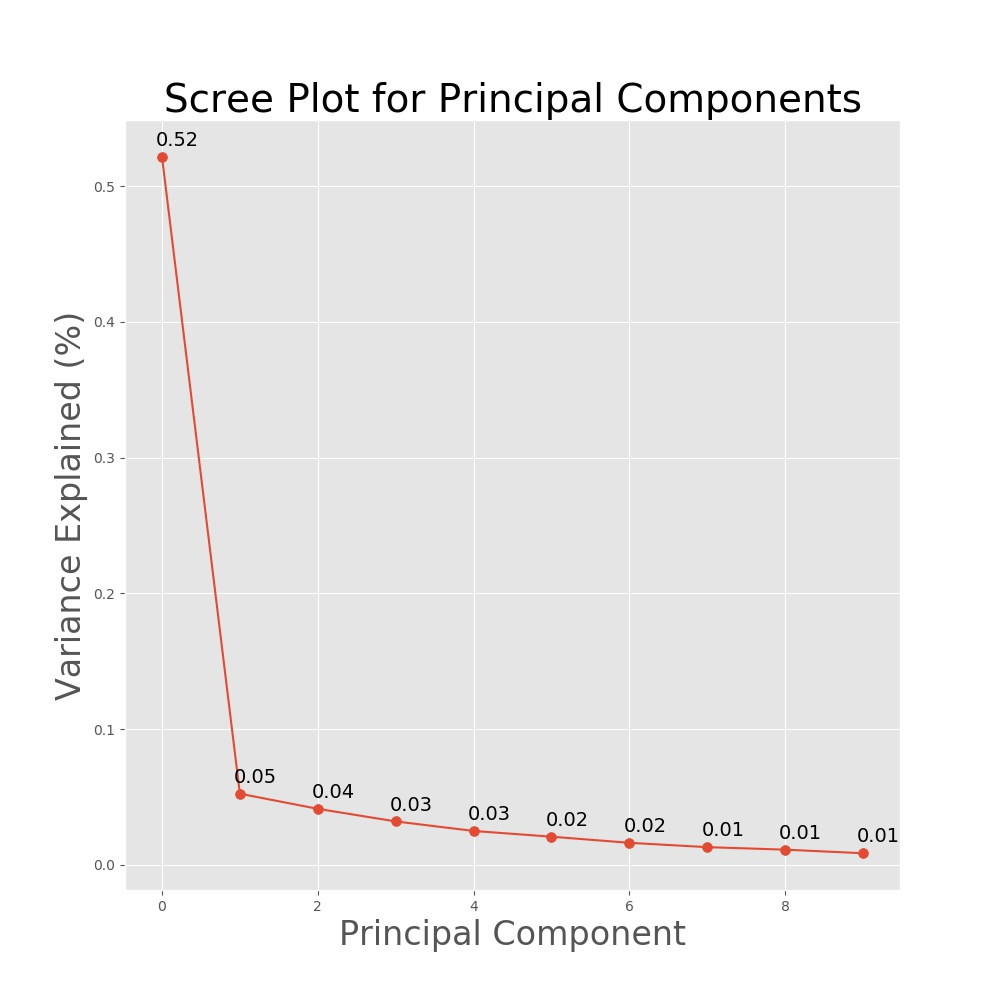
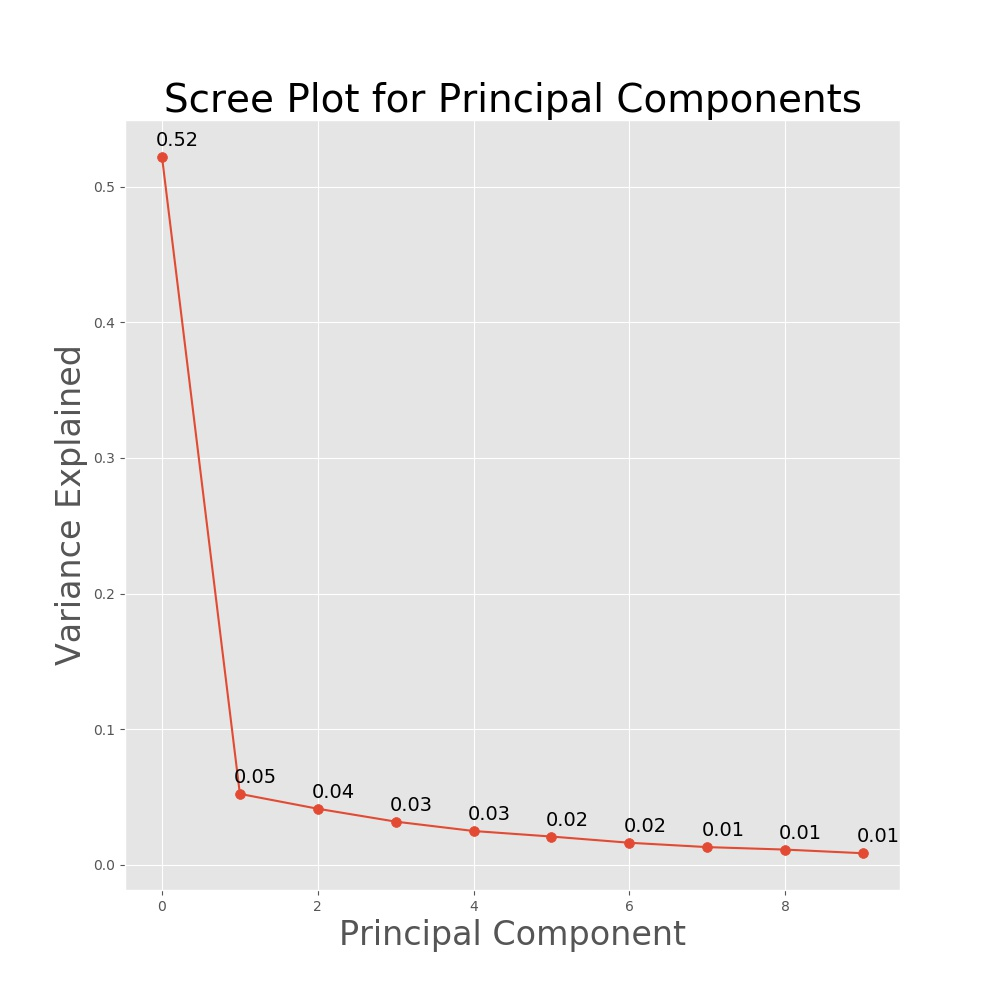
fixing label on pca plot

Changed region(s): [[0.062, 0.31, 0.093, 0.713]]

diff --git a/src/pca.py b/src/pca.py
@@ -56,7 +56,7 @@ def scree_plot(pca):
                    ha="center", 
                    fontsize=14)
     ax.set_xlabel("Principal Component", fontsize=24)
-    ax.set_ylabel("Variance Explained (%)", fontsize=24)
+    ax.set_ylabel("Variance Explained", fontsize=24)
     ax.set_title('Scree Plot for Principal Components', fontsize=28)
     plt.savefig('../figures/pca_scree_plot.jpg')
 
